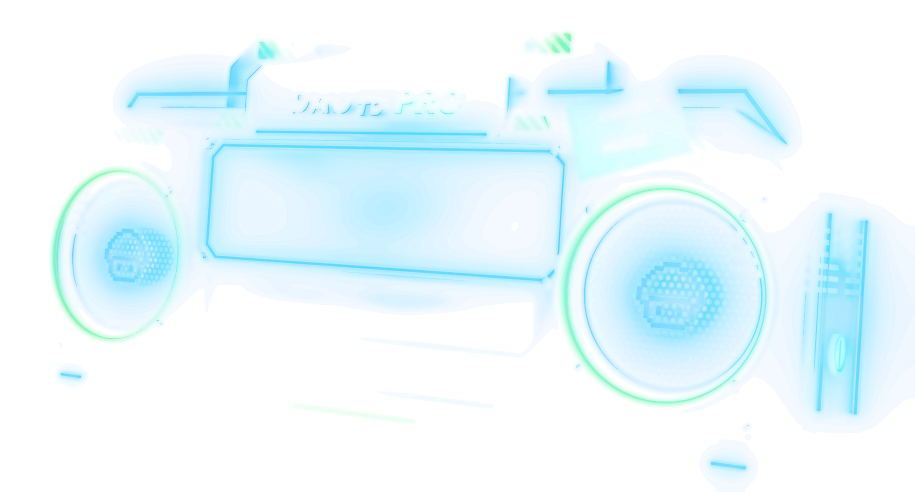
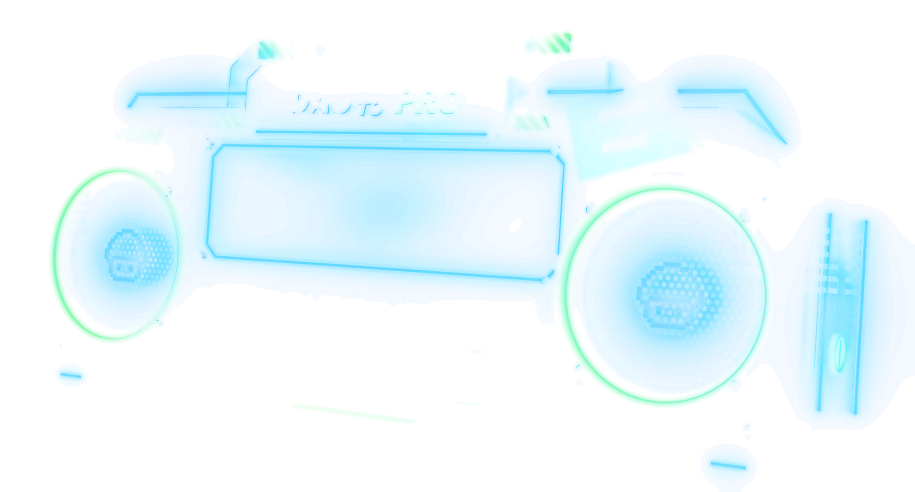
NERD RADIO: Metall mit Foto-Texturen von Poly Haven (CC0)

diff --git a/tools/nerd-radio/build_boombox.py b/tools/nerd-radio/build_boombox.py
@@ -8,6 +8,9 @@ Cyan und Gold, Membranen, Tasten je Platz und Zustand), layout.css und anchors.j
 Bedienelemente. Die Website legt echte HTML-Tasten, Display und Regler darüber.
 Im Gehäuse-Render sind deshalb keine Tasten und keine Anzeige enthalten.
 
+Metalloberflächen nutzen CC0-Foto-Texturen von Poly Haven (metal_plate_02, rusty_painted_metal,
+rusty_metal_02). Das Skript lädt sie beim ersten Lauf nach tools/nerd-radio/textures/ (nicht im Repo).
+
 Koordinaten: Entwurf im 1000 x 450 Layoutraster (x nach rechts, y nach unten),
 1 Blender-Einheit = 100 Layoutpixel. Vorderseite des Korpus liegt bei Y = 0,
 der Korpus reicht nach hinten (+Y). Kamera blickt von vorn (-Y) leicht von oben.
@@ -106,6 +109,36 @@ def subtract(target, *cutters):
         w, s = bev.width, bev.segments; target.modifiers.remove(bev)
         b = target.modifiers.new('bevel', 'BEVEL'); b.width = w; b.segments = s; b.limit_method = 'ANGLE'
 
+# ---------------------------------------------------------------- Foto-Texturen (Poly Haven, CC0)
+# Werden beim ersten Lauf von Poly Haven geladen und in tools/nerd-radio/textures/ zwischengespeichert
+# (per .gitignore nicht im Repo). Fehlen sie und es gibt kein Netz, bleibt es bei den prozeduralen Materialien.
+TEX_DIR = os.path.join(os.path.dirname(os.path.abspath(__file__)), 'textures')
+TEXTURES = {'metal_plate_02': ('Diffuse', 'nor_gl', 'Rough'),
+            'rusty_painted_metal': ('Diffuse',),
+            'rusty_metal_02': ('Diffuse',)}
+def fetch_textures():
+    import urllib.request
+    have = {}
+    for asset, maps in TEXTURES.items():
+        try:
+            files = None
+            for m in maps:
+                path = os.path.join(TEX_DIR, f'{asset}_{m}_2k.jpg')
+                if not os.path.exists(path):
+                    if files is None:
+                        req = urllib.request.Request(f'https://api.polyhaven.com/files/{asset}', headers={'User-Agent': 'nerd-radio-build'})
+                        files = json.load(urllib.request.urlopen(req, timeout=30))
+                    url = files[m]['2k']['jpg']['url']
+                    os.makedirs(TEX_DIR, exist_ok=True)
+                    req = urllib.request.Request(url, headers={'User-Agent': 'nerd-radio-build'})
+                    with urllib.request.urlopen(req, timeout=120) as r, open(path + '.part', 'wb') as f: f.write(r.read())
+                    os.replace(path + '.part', path); print('TEXTURE', os.path.basename(path))
+                have.setdefault(asset, {})[m] = path
+        except Exception as e:
+            print('TEXTURE fehlt', asset, e); have.pop(asset, None)
+    return have
+TEX = fetch_textures()
+
 # ---------------------------------------------------------------- Materialien
 def nodes(mat):
     mat.use_nodes = True; nt = mat.node_tree
@@ -164,33 +197,71 @@ def edge_mask(nt, radius=0.012, gain=7.0):
     inv = math_node(nt, 'SUBTRACT', 1.0, dot.outputs['Value'])
     return math_node(nt, 'MULTIPLY', inv, gain, clamp=True)
 
+def tex(nt, asset, m, scale=0.55, color=False):
+    """Foto-Textur per Box-Projektion in Weltkoordinaten (keine UVs nötig, keine Verzerrung bei skalierten Objekten)."""
+    if m not in TEX.get(asset, {}): return None
+    img = bpy.data.images.load(TEX[asset][m], check_existing=True)
+    img.colorspace_settings.name = 'sRGB' if color else 'Non-Color'
+    n = nt.nodes.new('ShaderNodeTexImage'); n.image = img; n.projection = 'BOX'; n.projection_blend = 0.25
+    geo = nt.nodes.new('ShaderNodeNewGeometry'); mp = nt.nodes.new('ShaderNodeMapping')
+    mp.inputs['Scale'].default_value = (scale,) * 3
+    seed = sum(map(ord, asset + name_seed[0]))   # fester Versatz je Material, damit sich das Muster nicht wiederholt
+    mp.inputs['Location'].default_value = (seed % 97 / 97, seed % 89 / 89, seed % 83 / 83)
+    nt.links.new(geo.outputs['Position'], mp.inputs[0]); nt.links.new(mp.outputs[0], n.inputs['Vector'])
+    return n.outputs['Color']
+name_seed = ['']
+def lum(nt, c):
+    n = nt.nodes.new('ShaderNodeRGBToBW'); nt.links.new(c, n.inputs[0]); return n.outputs[0]
+
+def math_vec_scale(nt, c, k):
+    n = nt.nodes.new('ShaderNodeVectorMath'); n.operation = 'SCALE'; nt.links.new(c, n.inputs[0]); n.inputs['Scale'].default_value = k
+    return n.outputs[0]
+
 def mat_metal(name, base=(0.05, 0.06, 0.07), rust=0.55, wear=1.0, rough=0.42):
     """Dunkles Gunmetal mit Kantenabrieb, Kratzern, Schmutz und Rostflecken."""
-    m = bpy.data.materials.new(name); nt = nodes(m)
+    m = bpy.data.materials.new(name); nt = nodes(m); name_seed[0] = name
     b = principled(nt, **{'Metallic': 1.0, 'Roughness': rough})
     grime = noise(nt, 6, 8, 0.6).outputs['Fac']
     col = mix_color(nt, ramp(nt, grime, [(0.35, (0, 0, 0)), (0.7, (1, 1, 1))]), base, tuple(c * 1.6 for c in base))
+    plate = tex(nt, 'metal_plate_02', 'Diffuse', color=True)
+    if plate:   # Fotostruktur der Metallplatte, auf den dunklen Grundton eingefärbt
+        tint = nt.nodes.new('ShaderNodeMix'); tint.data_type = 'RGBA'; tint.blend_type = 'MULTIPLY'
+        sock(tint, 'Factor_Float').default_value = 1.0
+        nt.links.new(col, sock(tint, 'A_Color')); nt.links.new(plate, sock(tint, 'B_Color'))
+        col = math_vec_scale(nt, sock(tint, 'Result_Color'), 3.2)
     # Rost: großflächige Flecken, bevorzugt an Rändern und in Vertiefungen
     rn = noise(nt, 2.2, 10, 0.7).outputs['Fac']
     rmask = ramp(nt, rn, [(0.58 - 0.12 * rust, (0, 0, 0)), (0.66 - 0.1 * rust, (1, 1, 1))])
     rmask = math_node(nt, 'MULTIPLY', ramp(nt, noise(nt, 18, 4).outputs['Fac'], [(0.4, (0.2, 0.2, 0.2)), (0.6, (1, 1, 1))]), rmask)
     rmask = math_node(nt, 'MULTIPLY', rmask, rust)
     rustc = mix_color(nt, noise(nt, 30, 3).outputs['Fac'], (0.16, 0.06, 0.02), (0.38, 0.17, 0.05))
+    rust_photo = tex(nt, 'rusty_metal_02', 'Diffuse', scale=0.8, color=True)
+    if rust_photo: rustc = mix_color(nt, 0.8, rustc, rust_photo)
+    paint = tex(nt, 'rusty_painted_metal', 'Diffuse', scale=0.7, color=True)
+    if paint:   # Rostflecken folgen zusätzlich der Fotovorlage
+        rmask = math_node(nt, 'MULTIPLY', rmask, ramp(nt, lum(nt, paint), [(0.25, (1.4, 1.4, 1.4)), (0.6, (0.5, 0.5, 0.5))]), clamp=True)
     col = mix_color(nt, rmask, col, rustc)
     # Kantenabrieb: blankes, helleres Metall an allen Fasen
     em = math_node(nt, 'MULTIPLY', edge_mask(nt), wear)
-    em = math_node(nt, 'MULTIPLY', em, ramp(nt, noise(nt, 40, 2).outputs['Fac'], [(0.35, (0.25, 0.25, 0.25)), (0.55, (1, 1, 1))]))
+    chip = lum(nt, paint) if paint else noise(nt, 40, 2).outputs['Fac']
+    em = math_node(nt, 'MULTIPLY', em, ramp(nt, chip, [(0.35, (0.25, 0.25, 0.25)), (0.55, (1, 1, 1))]))
     col = mix_color(nt, em, col, (0.42, 0.44, 0.46))
     nt.links.new(col, b.inputs['Base Color'])
     metal = math_node(nt, 'SUBTRACT', 1.0, rmask)
     nt.links.new(metal, b.inputs['Metallic'])
     scratches = noise(nt, 60, 2, 0.5, stretch=(1, 1, 40)).outputs['Fac']
     r = ramp(nt, scratches, [(0.45, (rough + 0.12,) * 3), (0.62, (rough - 0.18,) * 3)])
+    prough = tex(nt, 'metal_plate_02', 'Rough')
+    if prough: r = math_node(nt, 'ADD', math_node(nt, 'MULTIPLY', r, 0.55), math_node(nt, 'MULTIPLY', lum(nt, prough), 0.45 * rough / 0.42))
     r = math_node(nt, 'MAXIMUM', r, math_node(nt, 'MULTIPLY', rmask, 0.95))
     r = math_node(nt, 'SUBTRACT', r, math_node(nt, 'MULTIPLY', em, 0.18))
     nt.links.new(r, b.inputs['Roughness'])
     bump = nt.nodes.new('ShaderNodeBump'); bump.inputs['Strength'].default_value = 0.18
     nt.links.new(math_node(nt, 'ADD', math_node(nt, 'MULTIPLY', scratches, 0.4), math_node(nt, 'MULTIPLY', rmask, 1.2)), bump.inputs['Height'])
+    pnor = tex(nt, 'metal_plate_02', 'nor_gl')
+    if pnor:   # Normalen der Foto-Metallplatte (metal_plate_02), Bump für Kratzer und Rost oben drauf
+        nm = nt.nodes.new('ShaderNodeNormalMap'); nm.inputs['Strength'].default_value = 1.0
+        nt.links.new(pnor, nm.inputs['Color']); nt.links.new(nm.outputs['Normal'], bump.inputs['Normal'])
     nt.links.new(bump.outputs['Normal'], b.inputs['Normal'])
     return m
 
